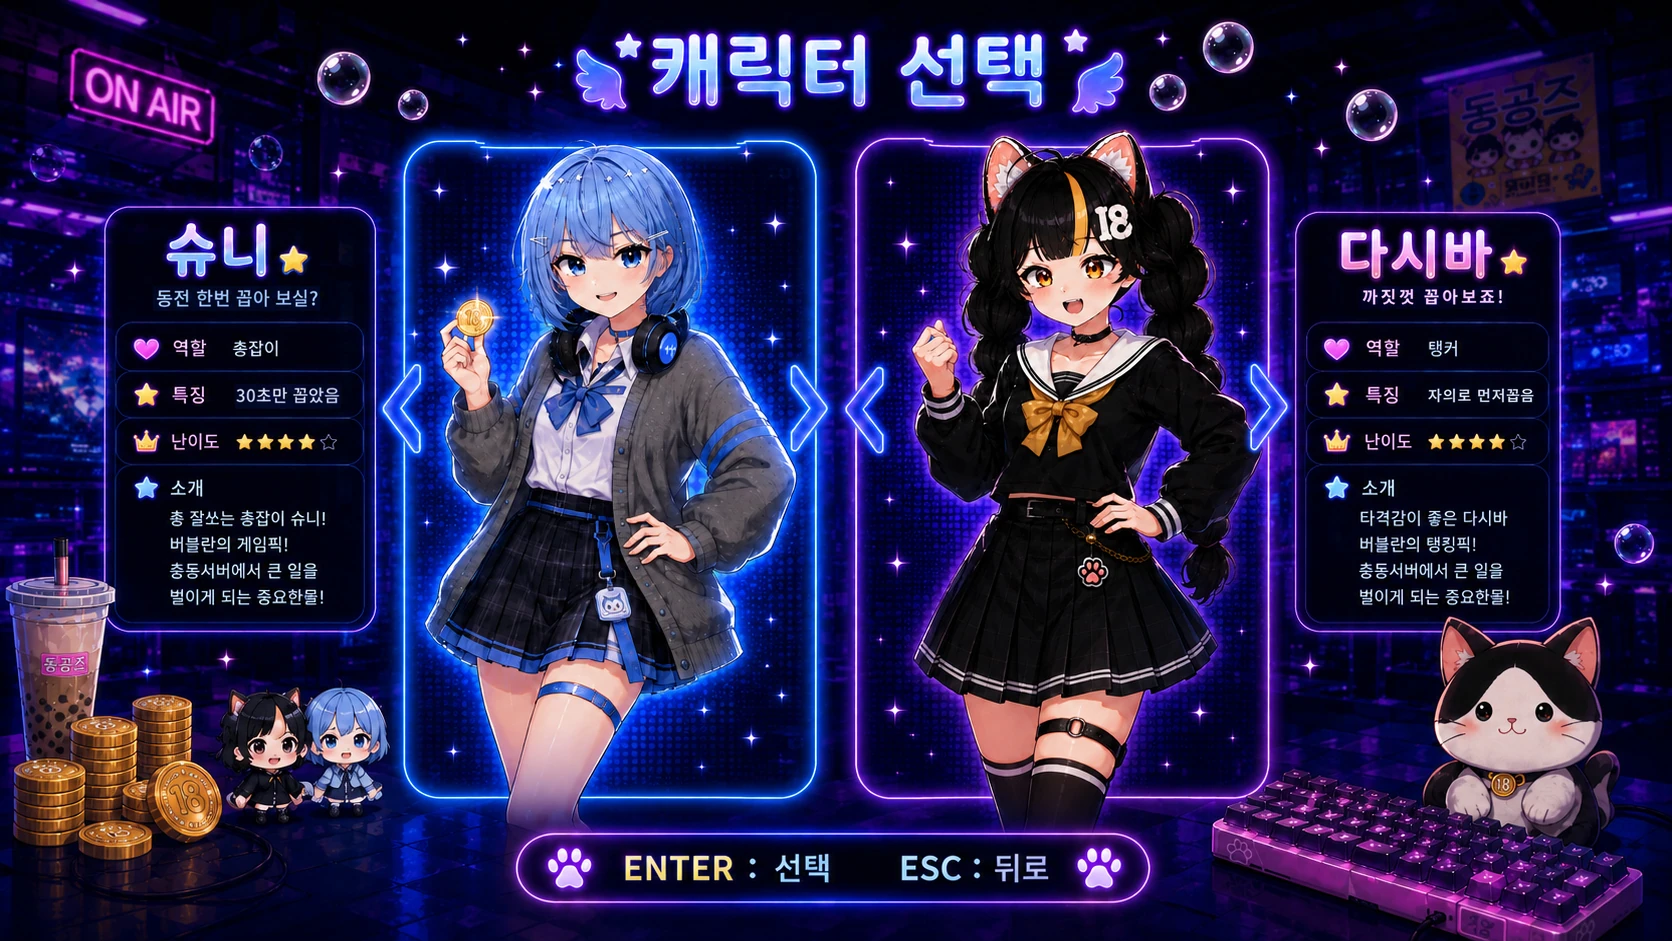
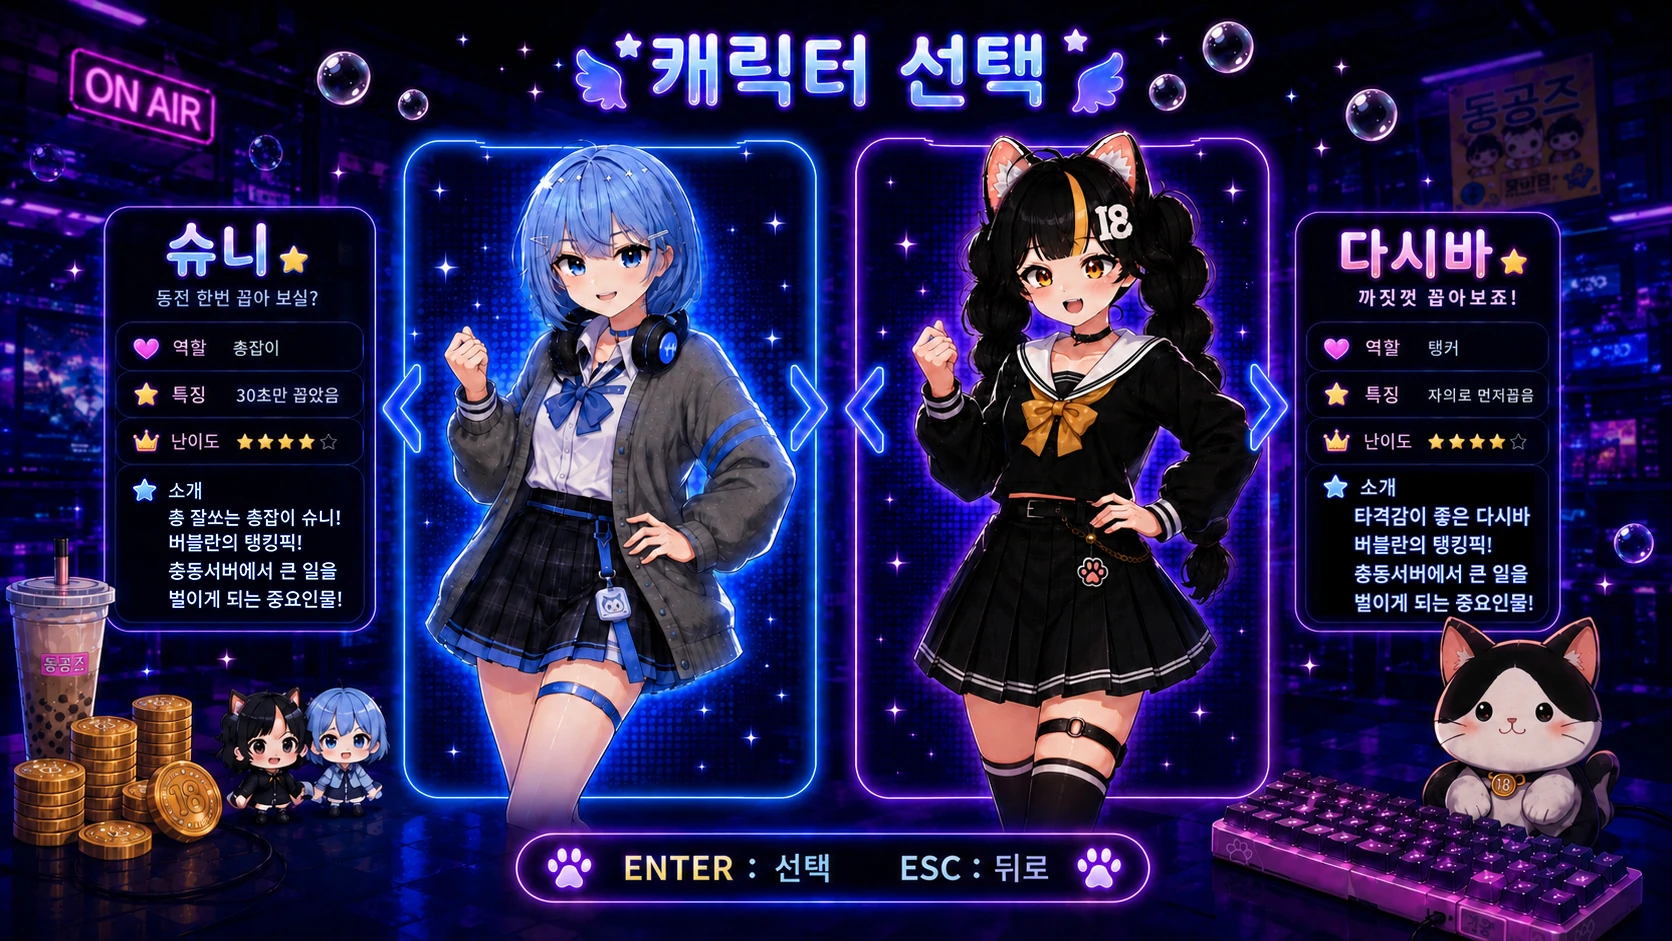
Add files via upload

diff --git a/game.js b/game.js
@@ -69,6 +69,7 @@
     stage3: "assets/audio/stage3_bgm.mp3",
     stage4: "assets/audio/stage4_bgm.mp3",
     stage5: "assets/audio/stage5_bgm.mp3",
+    endingBgm: "assets/audio/ending_bgm.mp3",
     coin: "assets/audio/coin.mp3",
     item: "assets/audio/item_use.mp3",
     ready: "assets/audio/item_ready.mp3",
@@ -284,6 +285,7 @@
     else if (state === "select" || state === "mode" || state === "connected" || state === "onlineLobby") playBgm("selectBgm");
     else if (state === "onlineCountdown") playBgm(onlineBgmKey || "stage1");
     else if (state === "playing") playBgm(gameMode === "online" ? (onlineBgmKey || "stage1") : `stage${stageIndex + 1}`);
+    else if (state === "ending" || state === "final") playBgm("endingBgm");
     else stopBgm();
   }
 
@@ -1538,7 +1540,7 @@
       }
       return;
     }
-    if (state === "ending" && e.key === "Enter") {
+    if (state === "ending" && (e.key === "Enter" || e.key === " ")) {
       setState("final");
       return;
     }
@@ -1553,7 +1555,7 @@
 
   window.addEventListener("keydown", (e) => {
     const nk = normalizeGameKey(e);
-    if (state === "onlineLobby" || [" ", "ArrowLeft", "ArrowRight"].includes(e.key) || Object.values(keyConfig).includes(nk)) e.preventDefault();
+    if (state === "onlineLobby" || state === "ending" || [" ", "ArrowLeft", "ArrowRight"].includes(e.key) || Object.values(keyConfig).includes(nk)) e.preventDefault();
     handleKey(e);
   });
 
@@ -1589,9 +1591,9 @@
       else sendState(false);
       if (timeLeft() <= 0) finishStage();
     }
-    if (state === "ending") {
+    if (state === "ending" && endingTimer > 0) {
       endingTimer -= dt;
-      if (endingTimer <= 0) setState("final");
+      // 엔딩 BGM이 충분히 이어지도록 자동 전환하지 않고, ENTER / SPACE 입력으로 최종 결과로 이동합니다.
     }
   }
 
@@ -2050,7 +2052,7 @@
       ctx.fillStyle = "rgba(0,0,0,.12)"; ctx.fillRect(0,0,W,H);
       drawEndingVfx();
       drawText(`${chars[selectedChar].name} 엔딩`, W/2, 80, 48, "#fff0a8");
-      drawText("ENTER : 최종 결과", W/2, 660, 28, "#fff");
+      drawText("ENTER / SPACE : 최종 결과", W/2, 660, 28, "#fff");
     } else if (state === "final") {
       drawFinal();
     }

diff --git a/PATCH_NOTE_2026-05-11_v17_ending_bgm_final_continue.md b/PATCH_NOTE_2026-05-11_v17_ending_bgm_final_continue.md
@@ -1,0 +1,7 @@
+# PATCH NOTE v17 - 엔딩 BGM / 최종 결과 연결
+
+- `assets/audio/ending_bgm.mp3` 추가.
+- 슈니/다시바 엔딩 장면 진입 시 엔딩 BGM이 자동 재생되도록 수정.
+- 엔딩 장면에서 `ENTER` 또는 `SPACE`를 누르면 최종 결과 화면으로 넘어가도록 수정.
+- 최종 결과 화면으로 넘어가도 엔딩 BGM이 끊기거나 처음부터 다시 시작하지 않고 계속 이어서 재생되도록 수정.
+- 엔딩 장면이 자동으로 최종 결과로 넘어가지 않도록 조정하여, 사용자가 직접 `ENTER / SPACE`로 넘길 수 있게 수정.